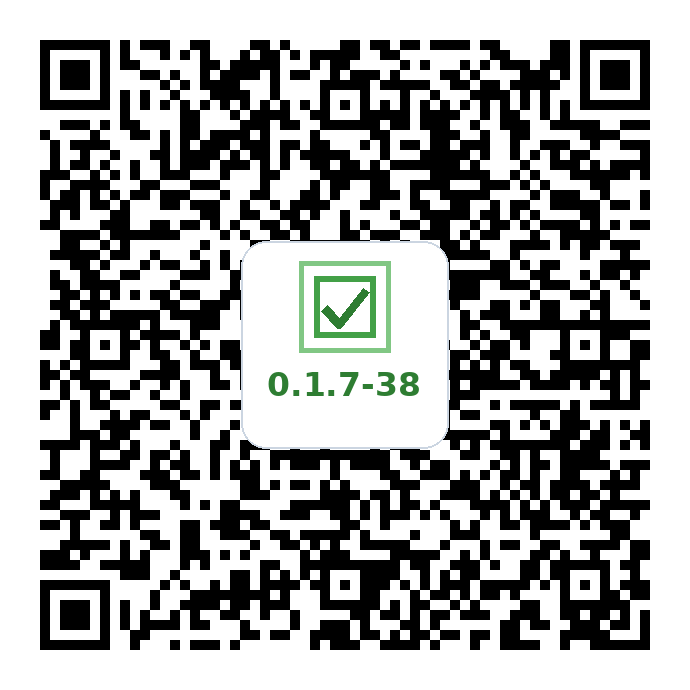
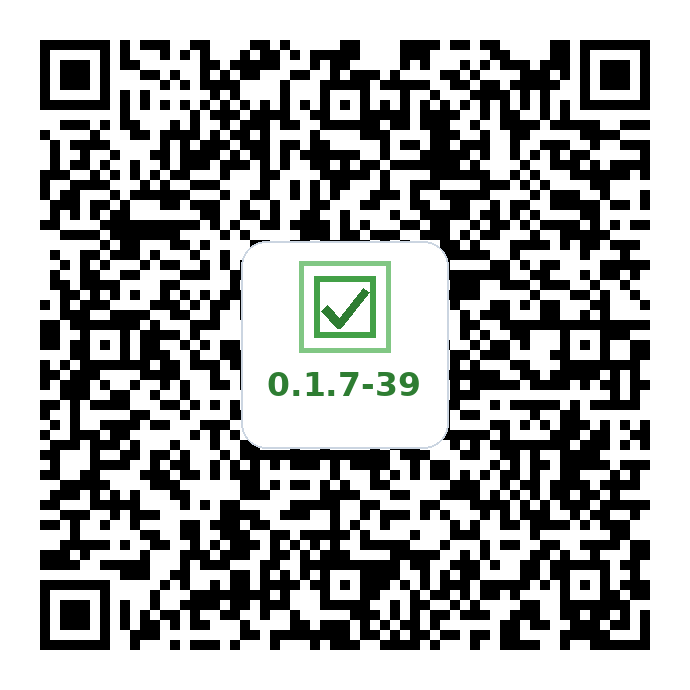
deploy: 4ca85d1c22a68e8beecc5c2e224ef2c74a78e7a7

diff --git a/index.html b/index.html
@@ -209,11 +209,11 @@
           </div>
             <div class="qr-container">
             <div class="qr-label">background-tasking</div>
-            <img src="qr.png" alt="MicroTasking APK QR Code (v0.1.7-38)">
+            <img src="qr.png" alt="MicroTasking APK QR Code (v0.1.7-39)">
             <br>
-            <a href="https://github.com/vemcg/MicroTasking/releases/download/v0.1.7-38-background-tasking/MicroTasking-v0.1.7-38-background-tasking.apk" class="btn" target="_blank" rel="noopener">Download MicroTasking APK (v0.1.7-38)</a>
+            <a href="https://github.com/vemcg/MicroTasking/releases/download/v0.1.7-39-background-tasking/MicroTasking-v0.1.7-39-background-tasking.apk" class="btn" target="_blank" rel="noopener">Download MicroTasking APK (v0.1.7-39)</a>
             <br>
-            <a href="https://github.com/vemcg/MicroTasking/releases/download/v0.1.7-38-background-tasking/MicroTasking-v0.1.7-38-background-tasking.apk" target="_blank" rel="noopener">Open the download again</a>
+            <a href="https://github.com/vemcg/MicroTasking/releases/download/v0.1.7-39-background-tasking/MicroTasking-v0.1.7-39-background-tasking.apk" target="_blank" rel="noopener">Open the download again</a>
           </div>
           </div>
         </li>
